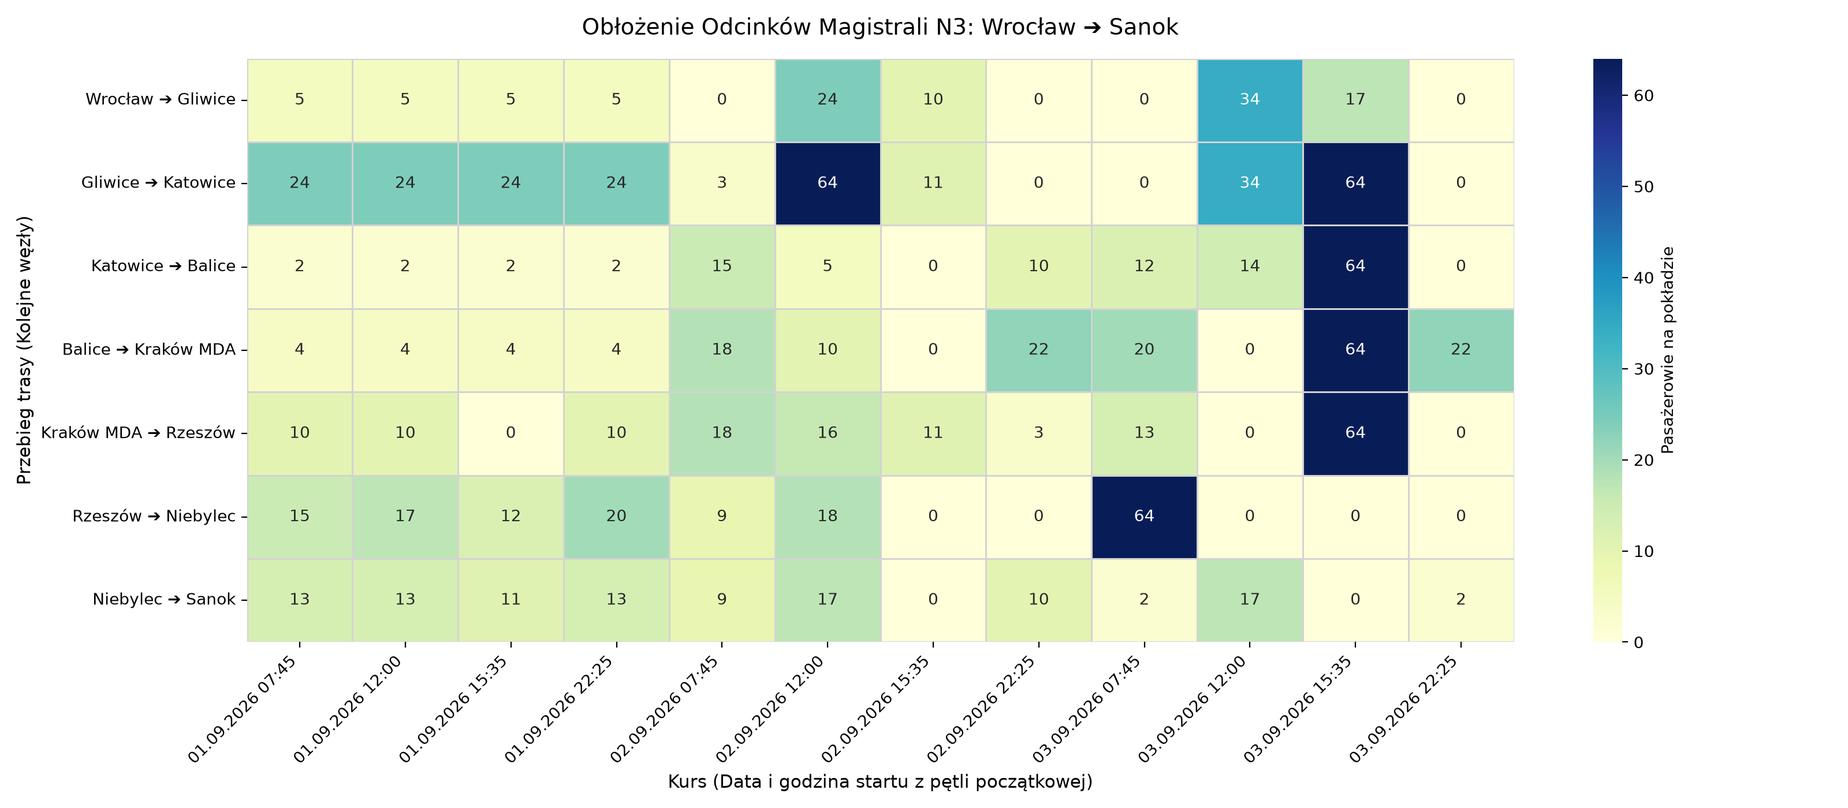
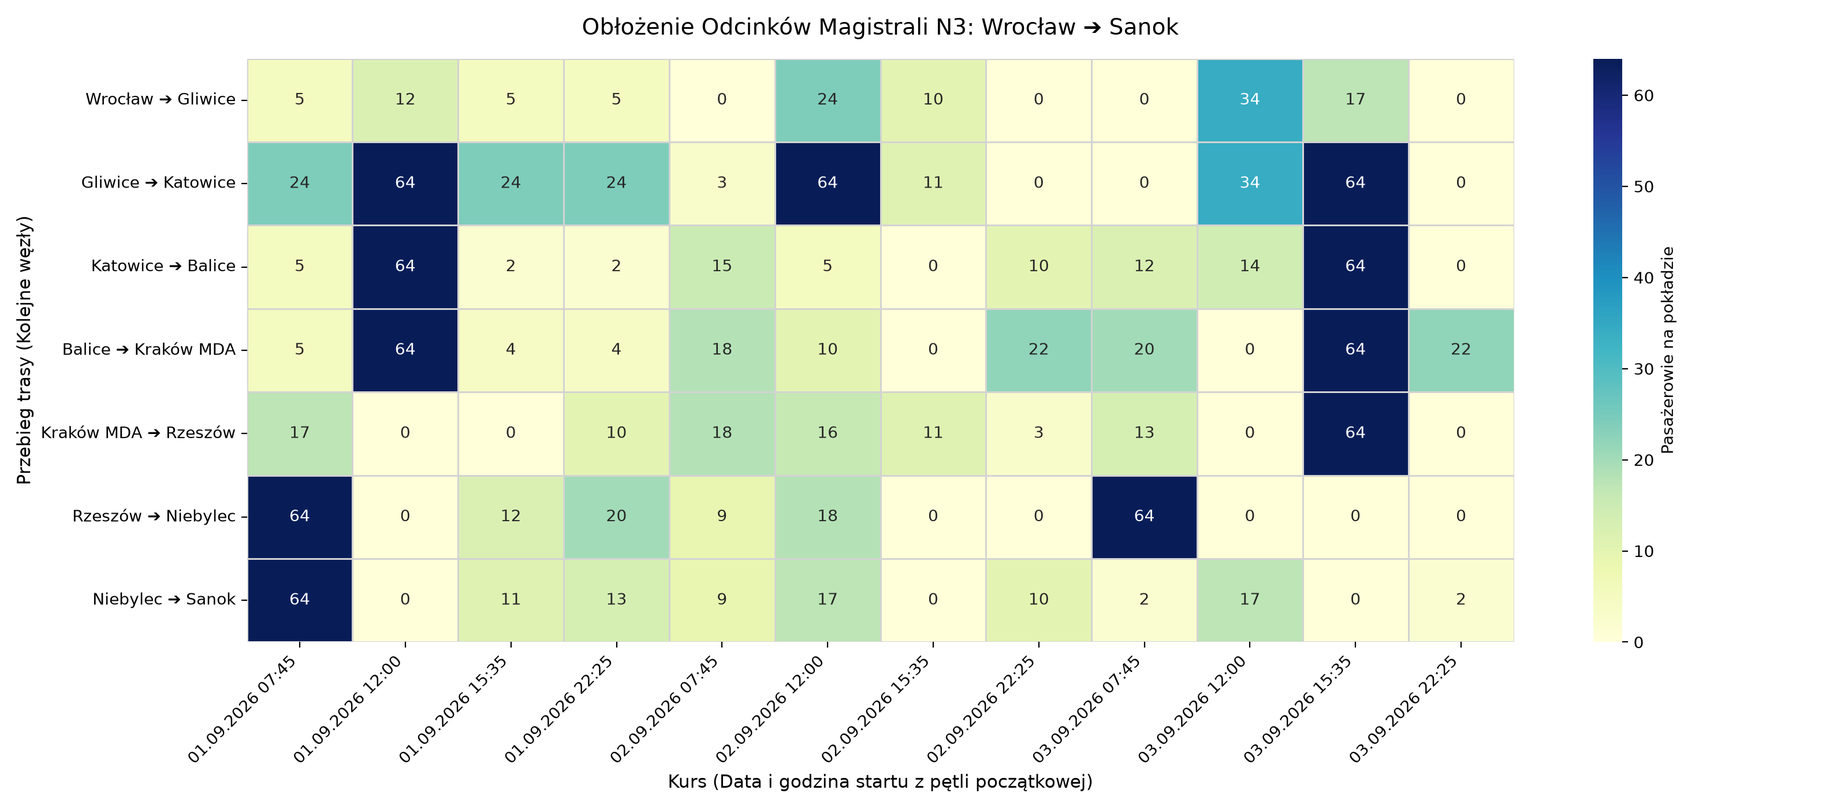
Telemetry Update: 2026-09-01 15:11:04

Changed region(s): [[0.125, 0.0614, 0.25, 0.7986]]

diff --git a/README.md b/README.md
@@ -1,6 +1,6 @@
 # 🏛 Project Aether: N3 Transit Observatory
 
-> 🕒 **Ostatnia synchronizacja:** `01.09.2026 14:39:49`  
+> 🕒 **Ostatnia synchronizacja:** `01.09.2026 15:11:01`  
 > 📊 **Status magistrali N3 (Sanok ⇄ Wrocław)** | 8 Węzłów | 7 Odcinków Pomiarowych
 
 ## 🧭 Bezpośrednie kursy magistralne (Terminus ➔ Terminus)
@@ -33,7 +33,7 @@
 ## 📈 Analityka Węzłowa: Potoki, Wymiana Pasażerska (Δ) i Estymacja Obrotów
 
 ### 🚌 Sanok ➔ Wrocław: `Poranny I (03:00)` | 📅 Data: **01.09.2026**
-> 💵 **Szacowany obrót kursu:** `1041.45 PLN` | 📊 **Średni Load Factor:** `6.8%`
+> 💵 **Szacowany obrót kursu:** `662.50 PLN` | 📊 **Średni Load Factor:** `7.0%`
 
 | Odcinek | Odjazd | Cena | Wolne | Na pokładzie | Bilans w węźle (Δ) | Obrót odcinka |
 | :--- | :---: | :---: | :---: | :---: | :---: | :---: |
@@ -43,267 +43,72 @@
 | Kraków MDA ➔ Balice | ⏰ 06:55 | 0.00 zł | `B/D` | **0/65** | ➡ 0 | **0.00 zł** |
 | Balice ➔ Katowice | ⏰ 07:20 | 0.00 zł | `B/D` | **0/65** | ➡ 0 | **0.00 zł** |
 | Katowice ➔ Gliwice | ⏰ 08:30 | 0.00 zł | `B/D` | **0/65** | ➡ 0 | **0.00 zł** |
-| Gliwice ➔ Wrocław | ⏰ 09:00 | 34.45 zł | `79` | **11/90** | 📈 +11 | **378.95 zł** |
+| Gliwice ➔ Wrocław | ⏰ 09:00 | 0.00 zł | `B/D` | **0/65** | ➡ 0 | **0.00 zł** |
 
 ### 🚌 Sanok ➔ Wrocław: `Poranny II (06:35)` | 📅 Data: **01.09.2026**
-> 💵 **Szacowany obrót kursu:** `1041.45 PLN` | 📊 **Średni Load Factor:** `6.8%`
+> 💵 **Szacowany obrót kursu:** `774.50 PLN` | 📊 **Średni Load Factor:** `8.8%`
 
 | Odcinek | Odjazd | Cena | Wolne | Na pokładzie | Bilans w węźle (Δ) | Obrót odcinka |
 | :--- | :---: | :---: | :---: | :---: | :---: | :---: |
 | Sanok ➔ Niebylec | ⏰ 06:35 | 23.75 zł | `43` | **22/65** | Start trasy | **522.50 zł** |
-| Niebylec ➔ Rzeszów | ⏰ 07:40 | 14.00 zł | `55` | **10/65** | 📉 -12 | **140.00 zł** |
-| Rzeszów ➔ Kraków MDA | ⏰ 08:40 | 0.00 zł | `B/D` | **0/65** | 📉 -10 | **0.00 zł** |
+| Niebylec ➔ Rzeszów | ⏰ 07:40 | 14.00 zł | `47` | **18/65** | 📉 -4 | **252.00 zł** |
+| Rzeszów ➔ Kraków MDA | ⏰ 08:40 | 0.00 zł | `B/D` | **0/65** | 📉 -18 | **0.00 zł** |
 | Kraków MDA ➔ Balice | ⏰ 10:55 | 0.00 zł | `B/D` | **0/65** | ➡ 0 | **0.00 zł** |
 | Balice ➔ Katowice | ⏰ 11:30 | 0.00 zł | `B/D` | **0/65** | ➡ 0 | **0.00 zł** |
 | Katowice ➔ Gliwice | ⏰ 12:30 | 0.00 zł | `B/D` | **0/65** | ➡ 0 | **0.00 zł** |
-| Gliwice ➔ Wrocław | ⏰ 13:00 | 34.45 zł | `79` | **11/90** | 📈 +11 | **378.95 zł** |
+| Gliwice ➔ Wrocław | ⏰ 13:00 | 0.00 zł | `B/D` | **0/65** | ➡ 0 | **0.00 zł** |
 
 ### 🚌 Wrocław ➔ Sanok: `Poranny (07:45)` | 📅 Data: **01.09.2026**
-> 💵 **Szacowany obrót kursu:** `1798.75 PLN` | 📊 **Średni Load Factor:** `11.6%`
+> 💵 **Szacowany obrót kursu:** `4186.05 PLN` | 📊 **Średni Load Factor:** `29.2%`
 
 | Odcinek | Odjazd | Cena | Wolne | Na pokładzie | Bilans w węźle (Δ) | Obrót odcinka |
 | :--- | :---: | :---: | :---: | :---: | :---: | :---: |
 | Wrocław ➔ Gliwice | ⏰ 07:45 | 34.45 zł | `85` | **5/90** | Start trasy | **172.25 zł** |
 | Gliwice ➔ Katowice | ⏰ 09:45 | 19.95 zł | `66` | **24/90** | 📈 +19 | **478.80 zł** |
-| Katowice ➔ Balice | ⏰ 10:15 | 45.60 zł | `63` | **2/65** | 📉 -22 | **91.20 zł** |
-| Balice ➔ Kraków MDA | ⏰ 11:05 | 27.00 zł | `61` | **4/65** | 📈 +2 | **108.00 zł** |
-| Kraków MDA ➔ Rzeszów | ⏰ 11:45 | 42.40 zł | `55` | **10/65** | 📈 +6 | **424.00 zł** |
-| Rzeszów ➔ Niebylec | ⏰ 13:50 | 13.30 zł | `75` | **15/90** | 📈 +5 | **199.50 zł** |
-| Niebylec ➔ Sanok | ⏰ 14:35 | 25.00 zł | `77` | **13/90** | 📉 -2 | **325.00 zł** |
+| Katowice ➔ Balice | ⏰ 10:15 | 45.60 zł | `60` | **5/65** | 📉 -19 | **228.00 zł** |
+| Balice ➔ Kraków MDA | ⏰ 11:05 | 27.00 zł | `60` | **5/65** | ➡ 0 | **135.00 zł** |
+| Kraków MDA ➔ Rzeszów | ⏰ 11:45 | 42.40 zł | `48` | **17/65** | 📈 +12 | **720.80 zł** |
+| Rzeszów ➔ Niebylec | ⏰ 13:50 | 13.30 zł | `1` | **64/65** | 📈 +47 | **851.20 zł** |
+| Niebylec ➔ Sanok | ⏰ 14:35 | 25.00 zł | `1` | **64/65** | ➡ 0 | **1600.00 zł** |
 
 ### 🚌 Sanok ➔ Wrocław: `Południowy (10:10)` | 📅 Data: **01.09.2026**
-> 💵 **Szacowany obrót kursu:** `1041.45 PLN` | 📊 **Średni Load Factor:** `6.8%`
+> 💵 **Szacowany obrót kursu:** `1050.25 PLN` | 📊 **Średni Load Factor:** `13.0%`
 
 | Odcinek | Odjazd | Cena | Wolne | Na pokładzie | Bilans w węźle (Δ) | Obrót odcinka |
 | :--- | :---: | :---: | :---: | :---: | :---: | :---: |
-| Sanok ➔ Niebylec | ⏰ 10:10 | 23.75 zł | `43` | **22/65** | Start trasy | **522.50 zł** |
-| Niebylec ➔ Rzeszów | ⏰ 11:25 | 14.00 zł | `55` | **10/65** | 📉 -12 | **140.00 zł** |
-| Rzeszów ➔ Kraków MDA | ⏰ 12:20 | 0.00 zł | `B/D` | **0/65** | 📉 -10 | **0.00 zł** |
-| Kraków MDA ➔ Balice | ⏰ 14:40 | 0.00 zł | `B/D` | **0/65** | ➡ 0 | **0.00 zł** |
-| Balice ➔ Katowice | ⏰ 15:15 | 0.00 zł | `B/D` | **0/65** | ➡ 0 | **0.00 zł** |
-| Katowice ➔ Gliwice | ⏰ 16:25 | 0.00 zł | `B/D` | **0/65** | ➡ 0 | **0.00 zł** |
-| Gliwice ➔ Wrocław | ⏰ 16:55 | 34.45 zł | `79` | **11/90** | 📈 +11 | **378.95 zł** |
-
-### 🚌 Wrocław ➔ Sanok: `Południowy (12:00)` | 📅 Data: **01.09.2026**
-> 💵 **Szacowany obrót kursu:** `1825.35 PLN` | 📊 **Średni Load Factor:** `11.9%`
-
-| Odcinek | Odjazd | Cena | Wolne | Na pokładzie | Bilans w węźle (Δ) | Obrót odcinka |
-| :--- | :---: | :---: | :---: | :---: | :---: | :---: |
-| Wrocław ➔ Gliwice | ⏰ 12:00 | 34.45 zł | `85` | **5/90** | Start trasy | **172.25 zł** |
-| Gliwice ➔ Katowice | ⏰ 14:00 | 19.95 zł | `66` | **24/90** | 📈 +19 | **478.80 zł** |
-| Katowice ➔ Balice | ⏰ 14:30 | 45.60 zł | `63` | **2/65** | 📉 -22 | **91.20 zł** |
-| Balice ➔ Kraków MDA | ⏰ 15:20 | 27.00 zł | `61` | **4/65** | 📈 +2 | **108.00 zł** |
-| Kraków MDA ➔ Rzeszów | ⏰ 16:15 | 42.40 zł | `55` | **10/65** | 📈 +6 | **424.00 zł** |
-| Rzeszów ➔ Niebylec | ⏰ 18:40 | 13.30 zł | `73` | **17/90** | 📈 +7 | **226.10 zł** |
-| Niebylec ➔ Sanok | ⏰ 19:20 | 25.00 zł | `77` | **13/90** | 📉 -4 | **325.00 zł** |
-
-### 🚌 Wrocław ➔ Sanok: `Popołudniowy (15:35)` | 📅 Data: **01.09.2026**
-> 💵 **Szacowany obrót kursu:** `1284.85 PLN` | 📊 **Średni Load Factor:** `9.2%`
-
-| Odcinek | Odjazd | Cena | Wolne | Na pokładzie | Bilans w węźle (Δ) | Obrót odcinka |
-| :--- | :---: | :---: | :---: | :---: | :---: | :---: |
-| Wrocław ➔ Gliwice | ⏰ 15:35 | 34.45 zł | `85` | **5/90** | Start trasy | **172.25 zł** |
-| Gliwice ➔ Katowice | ⏰ 17:40 | 19.95 zł | `66` | **24/90** | 📈 +19 | **478.80 zł** |
-| Katowice ➔ Balice | ⏰ 18:15 | 45.60 zł | `63` | **2/65** | 📉 -22 | **91.20 zł** |
-| Balice ➔ Kraków MDA | ⏰ 19:05 | 27.00 zł | `61` | **4/65** | 📈 +2 | **108.00 zł** |
-| Kraków MDA ➔ Rzeszów | ⏰ 19:45 | 0.00 zł | `B/D` | **0/65** | 📉 -4 | **0.00 zł** |
-| Rzeszów ➔ Niebylec | ⏰ 21:55 | 13.30 zł | `53` | **12/65** | 📈 +12 | **159.60 zł** |
-| Niebylec ➔ Sanok | ⏰ 22:30 | 25.00 zł | `54` | **11/65** | 📉 -1 | **275.00 zł** |
-
-### 🚌 Wrocław ➔ Sanok: `Nocny (22:25)` | 📅 Data: **01.09.2026**
-> 💵 **Szacowany obrót kursu:** `1865.25 PLN` | 📊 **Średni Load Factor:** `12.4%`
-
-| Odcinek | Odjazd | Cena | Wolne | Na pokładzie | Bilans w węźle (Δ) | Obrót odcinka |
-| :--- | :---: | :---: | :---: | :---: | :---: | :---: |
-| Wrocław ➔ Gliwice | ⏰ 22:25 | 34.45 zł | `85` | **5/90** | Start trasy | **172.25 zł** |
-| Gliwice ➔ Katowice | ⏰ 00:20 | 19.95 zł | `66` | **24/90** | 📈 +19 | **478.80 zł** |
-| Katowice ➔ Balice | ⏰ 00:50 | 45.60 zł | `63` | **2/65** | 📉 -22 | **91.20 zł** |
-| Balice ➔ Kraków MDA | ⏰ 01:50 | 27.00 zł | `61` | **4/65** | 📈 +2 | **108.00 zł** |
-| Kraków MDA ➔ Rzeszów | ⏰ 02:20 | 42.40 zł | `55` | **10/65** | 📈 +6 | **424.00 zł** |
-| Rzeszów ➔ Niebylec | ⏰ 04:30 | 13.30 zł | `70` | **20/90** | 📈 +10 | **266.00 zł** |
-| Niebylec ➔ Sanok | ⏰ 05:00 | 25.00 zł | `77` | **13/90** | 📉 -7 | **325.00 zł** |
-
-### 🚌 Sanok ➔ Wrocław: `Nocny (23:50)` | 📅 Data: **01.09.2026**
-> 💵 **Szacowany obrót kursu:** `1055.45 PLN` | 📊 **Średni Load Factor:** `7.0%`
-
-| Odcinek | Odjazd | Cena | Wolne | Na pokładzie | Bilans w węźle (Δ) | Obrót odcinka |
-| :--- | :---: | :---: | :---: | :---: | :---: | :---: |
-| Sanok ➔ Niebylec | ⏰ 23:50 | 23.75 zł | `43` | **22/65** | Start trasy | **522.50 zł** |
-| Niebylec ➔ Rzeszów | ⏰ 00:50 | 14.00 zł | `54` | **11/65** | 📉 -11 | **154.00 zł** |
-| Rzeszów ➔ Kraków MDA | ⏰ 01:30 | 0.00 zł | `B/D` | **0/65** | 📉 -11 | **0.00 zł** |
-| Kraków MDA ➔ Balice | ⏰ 03:35 | 0.00 zł | `B/D` | **0/65** | ➡ 0 | **0.00 zł** |
-| Balice ➔ Katowice | ⏰ 04:00 | 0.00 zł | `B/D` | **0/65** | ➡ 0 | **0.00 zł** |
-| Katowice ➔ Gliwice | ⏰ 04:55 | 0.00 zł | `B/D` | **0/65** | ➡ 0 | **0.00 zł** |
-| Gliwice ➔ Wrocław | ⏰ 05:22 | 34.45 zł | `79` | **11/90** | 📈 +11 | **378.95 zł** |
-
-### 🚌 Sanok ➔ Wrocław: `Poranny I (03:00)` | 📅 Data: **02.09.2026**
-> 💵 **Szacowany obrót kursu:** `3626.85 PLN` | 📊 **Średni Load Factor:** `31.2%`
-
-| Odcinek | Odjazd | Cena | Wolne | Na pokładzie | Bilans w węźle (Δ) | Obrót odcinka |
-| :--- | :---: | :---: | :---: | :---: | :---: | :---: |
-| Sanok ➔ Niebylec | ⏰ 03:00 | 23.75 zł | `54` | **11/65** | Start trasy | **261.25 zł** |
-| Niebylec ➔ Rzeszów | ⏰ 04:00 | 14.00 zł | `54` | **11/65** | ➡ 0 | **154.00 zł** |
-| Rzeszów ➔ Kraków MDA | ⏰ 04:40 | 42.40 zł | `40` | **25/65** | 📈 +14 | **1060.00 zł** |
-| Kraków MDA ➔ Balice | ⏰ 06:55 | 27.00 zł | `39` | **26/65** | 📈 +1 | **702.00 zł** |
-| Balice ➔ Katowice | ⏰ 07:20 | 48.00 zł | `60` | **5/65** | 📉 -21 | **240.00 zł** |
-| Katowice ➔ Gliwice | ⏰ 08:30 | 18.90 zł | `1` | **64/65** | 📈 +59 | **1209.60 zł** |
-| Gliwice ➔ Wrocław | ⏰ 09:00 | 0.00 zł | `B/D` | **0/65** | 📉 -64 | **0.00 zł** |
-
-### 🚌 Sanok ➔ Wrocław: `Poranny II (06:35)` | 📅 Data: **02.09.2026**
-> 💵 **Szacowany obrót kursu:** `9131.35 PLN` | 📊 **Średni Load Factor:** `64.0%`
-
-| Odcinek | Odjazd | Cena | Wolne | Na pokładzie | Bilans w węźle (Δ) | Obrót odcinka |
-| :--- | :---: | :---: | :---: | :---: | :---: | :---: |
-| Sanok ➔ Niebylec | ⏰ 06:35 | 23.75 zł | `32` | **33/65** | Start trasy | **783.75 zł** |
-| Niebylec ➔ Rzeszów | ⏰ 07:40 | 14.00 zł | `32` | **33/65** | ➡ 0 | **462.00 zł** |
-| Rzeszów ➔ Kraków MDA | ⏰ 08:40 | 42.40 zł | `32` | **33/65** | ➡ 0 | **1399.20 zł** |
-| Kraków MDA ➔ Balice | ⏰ 10:55 | 0.00 zł | `B/D` | **0/65** | 📉 -33 | **0.00 zł** |
-| Balice ➔ Katowice | ⏰ 11:30 | 48.00 zł | `1` | **64/65** | 📈 +64 | **3072.00 zł** |
-| Katowice ➔ Gliwice | ⏰ 12:30 | 18.90 zł | `1` | **64/65** | ➡ 0 | **1209.60 zł** |
-| Gliwice ➔ Wrocław | ⏰ 13:00 | 34.45 zł | `1` | **64/65** | ➡ 0 | **2204.80 zł** |
-
-### 🚌 Sanok ➔ Wrocław: `Południowy (10:10)` | 📅 Data: **02.09.2026**
-> 💵 **Szacowany obrót kursu:** `1520.00 PLN` | 📊 **Średni Load Factor:** `14.1%`
-
-| Odcinek | Odjazd | Cena | Wolne | Na pokładzie | Bilans w węźle (Δ) | Obrót odcinka |
-| :--- | :---: | :---: | :---: | :---: | :---: | :---: |
-| Sanok ➔ Niebylec | ⏰ 10:10 | 23.75 zł | `1` | **64/65** | Start trasy | **1520.00 zł** |
-| Niebylec ➔ Rzeszów | ⏰ 11:25 | 0.00 zł | `B/D` | **0/65** | 📉 -64 | **0.00 zł** |
-| Rzeszów ➔ Kraków MDA | ⏰ 12:20 | 0.00 zł | `B/D` | **0/65** | ➡ 0 | **0.00 zł** |
+| Sanok ➔ Niebylec | ⏰ 10:10 | 23.75 zł | `42` | **23/65** | Start trasy | **546.25 zł** |
+| Niebylec ➔ Rzeszów | ⏰ 11:25 | 14.00 zł | `29` | **36/65** | 📈 +13 | **504.00 zł** |
+| Rzeszów ➔ Kraków MDA | ⏰ 12:20 | 0.00 zł | `B/D` | **0/65** | 📉 -36 | **0.00 zł** |
 | Kraków MDA ➔ Balice | ⏰ 14:40 | 0.00 zł | `B/D` | **0/65** | ➡ 0 | **0.00 zł** |
 | Balice ➔ Katowice | ⏰ 15:15 | 0.00 zł | `B/D` | **0/65** | ➡ 0 | **0.00 zł** |
 | Katowice ➔ Gliwice | ⏰ 16:25 | 0.00 zł | `B/D` | **0/65** | ➡ 0 | **0.00 zł** |
 | Gliwice ➔ Wrocław | ⏰ 16:55 | 0.00 zł | `B/D` | **0/65** | ➡ 0 | **0.00 zł** |
 
-### 🚌 Wrocław ➔ Sanok: `Popołudniowy (15:35)` | 📅 Data: **02.09.2026**
-> 💵 **Szacowany obrót kursu:** `1030.35 PLN` | 📊 **Średni Load Factor:** `7.0%`
+### 🚌 Wrocław ➔ Sanok: `Południowy (12:00)` | 📅 Data: **01.09.2026**
+> 💵 **Szacowany obrót kursu:** `6336.60 PLN` | 📊 **Średni Load Factor:** `32.4%`
 
 | Odcinek | Odjazd | Cena | Wolne | Na pokładzie | Bilans w węźle (Δ) | Obrót odcinka |
 | :--- | :---: | :---: | :---: | :---: | :---: | :---: |
-| Wrocław ➔ Gliwice | ⏰ 15:35 | 34.45 zł | `55` | **10/65** | Start trasy | **344.50 zł** |
-| Gliwice ➔ Katowice | ⏰ 17:40 | 19.95 zł | `54` | **11/65** | 📈 +1 | **219.45 zł** |
-| Katowice ➔ Balice | ⏰ 18:15 | 0.00 zł | `B/D` | **0/65** | 📉 -11 | **0.00 zł** |
-| Balice ➔ Kraków MDA | ⏰ 19:05 | 0.00 zł | `B/D` | **0/65** | ➡ 0 | **0.00 zł** |
-| Kraków MDA ➔ Rzeszów | ⏰ 19:45 | 42.40 zł | `54` | **11/65** | 📈 +11 | **466.40 zł** |
-| Rzeszów ➔ Niebylec | ⏰ 21:55 | 0.00 zł | `B/D` | **0/65** | 📉 -11 | **0.00 zł** |
-| Niebylec ➔ Sanok | ⏰ 22:30 | 0.00 zł | `B/D` | **0/65** | ➡ 0 | **0.00 zł** |
-
-### 🚌 Wrocław ➔ Sanok: `Nocny (22:25)` | 📅 Data: **02.09.2026**
-> 💵 **Szacowany obrót kursu:** `1427.20 PLN` | 📊 **Średni Load Factor:** `7.1%`
-
-| Odcinek | Odjazd | Cena | Wolne | Na pokładzie | Bilans w węźle (Δ) | Obrót odcinka |
-| :--- | :---: | :---: | :---: | :---: | :---: | :---: |
-| Wrocław ➔ Gliwice | ⏰ 22:25 | 0.00 zł | `B/D` | **0/65** | Start trasy | **0.00 zł** |
-| Gliwice ➔ Katowice | ⏰ 00:20 | 0.00 zł | `B/D` | **0/65** | ➡ 0 | **0.00 zł** |
-| Katowice ➔ Balice | ⏰ 00:50 | 45.60 zł | `80` | **10/90** | 📈 +10 | **456.00 zł** |
-| Balice ➔ Kraków MDA | ⏰ 01:50 | 27.00 zł | `68` | **22/90** | 📈 +12 | **594.00 zł** |
-| Kraków MDA ➔ Rzeszów | ⏰ 02:20 | 42.40 zł | `62` | **3/65** | 📉 -19 | **127.20 zł** |
-| Rzeszów ➔ Niebylec | ⏰ 04:30 | 0.00 zł | `B/D` | **0/65** | 📉 -3 | **0.00 zł** |
-| Niebylec ➔ Sanok | ⏰ 05:00 | 25.00 zł | `55` | **10/65** | 📈 +10 | **250.00 zł** |
-
-### 🚌 Sanok ➔ Wrocław: `Nocny (23:50)` | 📅 Data: **02.09.2026**
-> 💵 **Szacowany obrót kursu:** `4968.25 PLN` | 📊 **Średni Load Factor:** `24.1%`
-
-| Odcinek | Odjazd | Cena | Wolne | Na pokładzie | Bilans w węźle (Δ) | Obrót odcinka |
-| :--- | :---: | :---: | :---: | :---: | :---: | :---: |
-| Sanok ➔ Niebylec | ⏰ 23:50 | 23.75 zł | `57` | **8/65** | Start trasy | **190.00 zł** |
-| Niebylec ➔ Rzeszów | ⏰ 00:50 | 14.00 zł | `43` | **22/65** | 📈 +14 | **308.00 zł** |
-| Rzeszów ➔ Kraków MDA | ⏰ 01:30 | 42.40 zł | `20` | **45/65** | 📈 +23 | **1908.00 zł** |
-| Kraków MDA ➔ Balice | ⏰ 03:35 | 27.00 zł | `28` | **37/65** | 📉 -8 | **999.00 zł** |
-| Balice ➔ Katowice | ⏰ 04:00 | 48.00 zł | `66` | **24/90** | 📉 -13 | **1152.00 zł** |
-| Katowice ➔ Gliwice | ⏰ 04:55 | 18.90 zł | `81` | **9/90** | 📉 -15 | **170.10 zł** |
-| Gliwice ➔ Wrocław | ⏰ 05:22 | 34.45 zł | `83` | **7/90** | 📉 -2 | **241.15 zł** |
-
-### 🚌 Sanok ➔ Wrocław: `Poranny I (03:00)` | 📅 Data: **03.09.2026**
-> 💵 **Szacowany obrót kursu:** `6076.35 PLN` | 📊 **Średni Load Factor:** `49.2%`
-
-| Odcinek | Odjazd | Cena | Wolne | Na pokładzie | Bilans w węźle (Δ) | Obrót odcinka |
-| :--- | :---: | :---: | :---: | :---: | :---: | :---: |
-| Sanok ➔ Niebylec | ⏰ 03:00 | 23.75 zł | `52` | **13/65** | Start trasy | **308.75 zł** |
-| Niebylec ➔ Rzeszów | ⏰ 04:00 | 14.00 zł | `1` | **64/65** | 📈 +51 | **896.00 zł** |
-| Rzeszów ➔ Kraków MDA | ⏰ 04:40 | 42.40 zł | `60` | **5/65** | 📉 -59 | **212.00 zł** |
-| Kraków MDA ➔ Balice | ⏰ 06:55 | 27.00 zł | `51` | **14/65** | 📈 +9 | **378.00 zł** |
-| Balice ➔ Katowice | ⏰ 07:20 | 48.00 zł | `1` | **64/65** | 📈 +50 | **3072.00 zł** |
-| Katowice ➔ Gliwice | ⏰ 08:30 | 18.90 zł | `1` | **64/65** | ➡ 0 | **1209.60 zł** |
-| Gliwice ➔ Wrocław | ⏰ 09:00 | 0.00 zł | `B/D` | **0/65** | 📉 -64 | **0.00 zł** |
-
-### 🚌 Sanok ➔ Wrocław: `Poranny II (06:35)` | 📅 Data: **03.09.2026**
-> 💵 **Szacowany obrót kursu:** `1774.75 PLN` | 📊 **Średni Load Factor:** `10.8%`
-
-| Odcinek | Odjazd | Cena | Wolne | Na pokładzie | Bilans w węźle (Δ) | Obrót odcinka |
-| :--- | :---: | :---: | :---: | :---: | :---: | :---: |
-| Sanok ➔ Niebylec | ⏰ 06:35 | 0.00 zł | `B/D` | **0/65** | Start trasy | **0.00 zł** |
-| Niebylec ➔ Rzeszów | ⏰ 07:40 | 0.00 zł | `B/D` | **0/65** | ➡ 0 | **0.00 zł** |
-| Rzeszów ➔ Kraków MDA | ⏰ 08:40 | 42.40 zł | `45` | **20/65** | 📈 +20 | **848.00 zł** |
-| Kraków MDA ➔ Balice | ⏰ 10:55 | 27.00 zł | `53` | **12/65** | 📉 -8 | **324.00 zł** |
-| Balice ➔ Katowice | ⏰ 11:30 | 48.00 zł | `58` | **7/65** | 📉 -5 | **336.00 zł** |
-| Katowice ➔ Gliwice | ⏰ 12:30 | 18.90 zł | `60` | **5/65** | 📉 -2 | **94.50 zł** |
-| Gliwice ➔ Wrocław | ⏰ 13:00 | 34.45 zł | `60` | **5/65** | ➡ 0 | **172.25 zł** |
-
-### 🚌 Wrocław ➔ Sanok: `Poranny (07:45)` | 📅 Data: **03.09.2026**
-> 💵 **Szacowany obrót kursu:** `2539.60 PLN` | 📊 **Średni Load Factor:** `17.6%`
-
-| Odcinek | Odjazd | Cena | Wolne | Na pokładzie | Bilans w węźle (Δ) | Obrót odcinka |
-| :--- | :---: | :---: | :---: | :---: | :---: | :---: |
-| Wrocław ➔ Gliwice | ⏰ 07:45 | 34.45 zł | `90` | **0/90** | Start trasy | **0.00 zł** |
-| Gliwice ➔ Katowice | ⏰ 09:45 | 19.95 zł | `90` | **0/90** | ➡ 0 | **0.00 zł** |
-| Katowice ➔ Balice | ⏰ 10:15 | 45.60 zł | `78` | **12/90** | 📈 +12 | **547.20 zł** |
-| Balice ➔ Kraków MDA | ⏰ 11:05 | 27.00 zł | `70` | **20/90** | 📈 +8 | **540.00 zł** |
-| Kraków MDA ➔ Rzeszów | ⏰ 11:45 | 42.40 zł | `77` | **13/90** | 📉 -7 | **551.20 zł** |
-| Rzeszów ➔ Niebylec | ⏰ 13:50 | 13.30 zł | `1` | **64/65** | 📈 +51 | **851.20 zł** |
-| Niebylec ➔ Sanok | ⏰ 14:35 | 25.00 zł | `63` | **2/65** | 📉 -62 | **50.00 zł** |
-
-### 🚌 Sanok ➔ Wrocław: `Południowy (10:10)` | 📅 Data: **03.09.2026**
-> 💵 **Szacowany obrót kursu:** `2154.70 PLN` | 📊 **Średni Load Factor:** `12.9%`
-
-| Odcinek | Odjazd | Cena | Wolne | Na pokładzie | Bilans w węźle (Δ) | Obrót odcinka |
-| :--- | :---: | :---: | :---: | :---: | :---: | :---: |
-| Sanok ➔ Niebylec | ⏰ 10:10 | 23.75 zł | `63` | **2/65** | Start trasy | **47.50 zł** |
-| Niebylec ➔ Rzeszów | ⏰ 11:25 | 14.00 zł | `31` | **34/65** | 📈 +32 | **476.00 zł** |
-| Rzeszów ➔ Kraków MDA | ⏰ 12:20 | 42.40 zł | `69` | **21/90** | 📉 -13 | **890.40 zł** |
-| Kraków MDA ➔ Balice | ⏰ 14:40 | 27.00 zł | `73` | **17/90** | 📉 -4 | **459.00 zł** |
-| Balice ➔ Katowice | ⏰ 15:15 | 48.00 zł | `87` | **3/90** | 📉 -14 | **144.00 zł** |
-| Katowice ➔ Gliwice | ⏰ 16:25 | 18.90 zł | `90` | **0/90** | 📉 -3 | **0.00 zł** |
-| Gliwice ➔ Wrocław | ⏰ 16:55 | 34.45 zł | `86` | **4/90** | 📈 +4 | **137.80 zł** |
-
-### 🚌 Wrocław ➔ Sanok: `Południowy (12:00)` | 📅 Data: **03.09.2026**
-> 💵 **Szacowany obrót kursu:** `2913.00 PLN` | 📊 **Średni Load Factor:** `21.8%`
-
-| Odcinek | Odjazd | Cena | Wolne | Na pokładzie | Bilans w węźle (Δ) | Obrót odcinka |
-| :--- | :---: | :---: | :---: | :---: | :---: | :---: |
-| Wrocław ➔ Gliwice | ⏰ 12:00 | 34.45 zł | `31` | **34/65** | Start trasy | **1171.30 zł** |
-| Gliwice ➔ Katowice | ⏰ 14:00 | 19.95 zł | `31` | **34/65** | ➡ 0 | **678.30 zł** |
-| Katowice ➔ Balice | ⏰ 14:30 | 45.60 zł | `51` | **14/65** | 📉 -20 | **638.40 zł** |
-| Balice ➔ Kraków MDA | ⏰ 15:20 | 0.00 zł | `B/D` | **0/65** | 📉 -14 | **0.00 zł** |
-| Kraków MDA ➔ Rzeszów | ⏰ 16:15 | 0.00 zł | `B/D` | **0/65** | ➡ 0 | **0.00 zł** |
+| Wrocław ➔ Gliwice | ⏰ 12:00 | 34.45 zł | `78` | **12/90** | Start trasy | **413.40 zł** |
+| Gliwice ➔ Katowice | ⏰ 14:00 | 19.95 zł | `1` | **64/65** | 📈 +52 | **1276.80 zł** |
+| Katowice ➔ Balice | ⏰ 14:30 | 45.60 zł | `1` | **64/65** | ➡ 0 | **2918.40 zł** |
+| Balice ➔ Kraków MDA | ⏰ 15:20 | 27.00 zł | `1` | **64/65** | ➡ 0 | **1728.00 zł** |
+| Kraków MDA ➔ Rzeszów | ⏰ 16:15 | 0.00 zł | `B/D` | **0/65** | 📉 -64 | **0.00 zł** |
 | Rzeszów ➔ Niebylec | ⏰ 18:40 | 0.00 zł | `B/D` | **0/65** | ➡ 0 | **0.00 zł** |
-| Niebylec ➔ Sanok | ⏰ 19:20 | 25.00 zł | `48` | **17/65** | 📈 +17 | **425.00 zł** |
+| Niebylec ➔ Sanok | ⏰ 19:20 | 0.00 zł | `B/D` | **0/65** | ➡ 0 | **0.00 zł** |
 
-### 🚌 Wrocław ➔ Sanok: `Popołudniowy (15:35)` | 📅 Data: **03.09.2026**
-> 💵 **Szacowany obrót kursu:** `9222.45 PLN` | 📊 **Średni Load Factor:** `60.0%`
-
-| Odcinek | Odjazd | Cena | Wolne | Na pokładzie | Bilans w węźle (Δ) | Obrót odcinka |
-| :--- | :---: | :---: | :---: | :---: | :---: | :---: |
-| Wrocław ➔ Gliwice | ⏰ 15:35 | 34.45 zł | `48` | **17/65** | Start trasy | **585.65 zł** |
-| Gliwice ➔ Katowice | ⏰ 17:40 | 19.95 zł | `1` | **64/65** | 📈 +47 | **1276.80 zł** |
-| Katowice ➔ Balice | ⏰ 18:15 | 45.60 zł | `1` | **64/65** | ➡ 0 | **2918.40 zł** |
-| Balice ➔ Kraków MDA | ⏰ 19:05 | 27.00 zł | `1` | **64/65** | ➡ 0 | **1728.00 zł** |
-| Kraków MDA ➔ Rzeszów | ⏰ 19:45 | 42.40 zł | `1` | **64/65** | ➡ 0 | **2713.60 zł** |
-| Rzeszów ➔ Niebylec | ⏰ 21:55 | 0.00 zł | `B/D` | **0/65** | 📉 -64 | **0.00 zł** |
-| Niebylec ➔ Sanok | ⏰ 22:30 | 0.00 zł | `B/D` | **0/65** | ➡ 0 | **0.00 zł** |
-
-### 🚌 Sanok ➔ Wrocław: `Nocny (23:50)` | 📅 Data: **03.09.2026**
-> 💵 **Szacowany obrót kursu:** `1949.95 PLN` | 📊 **Średni Load Factor:** `10.3%`
+### 🚌 Sanok ➔ Wrocław: `Nocny (23:50)` | 📅 Data: **01.09.2026**
+> 💵 **Szacowany obrót kursu:** `662.50 PLN` | 📊 **Średni Load Factor:** `7.0%`
 
 | Odcinek | Odjazd | Cena | Wolne | Na pokładzie | Bilans w węźle (Δ) | Obrót odcinka |
 | :--- | :---: | :---: | :---: | :---: | :---: | :---: |
-| Sanok ➔ Niebylec | ⏰ 23:50 | 23.75 zł | `47` | **18/65** | Start trasy | **427.50 zł** |
-| Niebylec ➔ Rzeszów | ⏰ 00:50 | 14.00 zł | `56` | **9/65** | 📉 -9 | **126.00 zł** |
-| Rzeszów ➔ Kraków MDA | ⏰ 01:30 | 42.40 zł | `49` | **16/65** | 📈 +7 | **678.40 zł** |
-| Kraków MDA ➔ Balice | ⏰ 03:35 | 27.00 zł | `55` | **10/65** | 📉 -6 | **270.00 zł** |
-| Balice ➔ Katowice | ⏰ 04:00 | 48.00 zł | `84` | **6/90** | 📉 -4 | **288.00 zł** |
-| Katowice ➔ Gliwice | ⏰ 04:55 | 18.90 zł | `87` | **3/90** | 📉 -3 | **56.70 zł** |
-| Gliwice ➔ Wrocław | ⏰ 05:22 | 34.45 zł | `87` | **3/90** | ➡ 0 | **103.35 zł** |
+| Sanok ➔ Niebylec | ⏰ 23:50 | 23.75 zł | `43` | **22/65** | Start trasy | **522.50 zł** |
+| Niebylec ➔ Rzeszów | ⏰ 00:50 | 14.00 zł | `55` | **10/65** | 📉 -12 | **140.00 zł** |
+| Rzeszów ➔ Kraków MDA | ⏰ 01:30 | 0.00 zł | `B/D` | **0/65** | 📉 -10 | **0.00 zł** |
+| Kraków MDA ➔ Balice | ⏰ 03:35 | 0.00 zł | `B/D` | **0/65** | ➡ 0 | **0.00 zł** |
+| Balice ➔ Katowice | ⏰ 04:00 | 0.00 zł | `B/D` | **0/65** | ➡ 0 | **0.00 zł** |
+| Katowice ➔ Gliwice | ⏰ 04:55 | 0.00 zł | `B/D` | **0/65** | ➡ 0 | **0.00 zł** |
+| Gliwice ➔ Wrocław | ⏰ 05:22 | 0.00 zł | `B/D` | **0/65** | ➡ 0 | **0.00 zł** |
 
 
 ---
